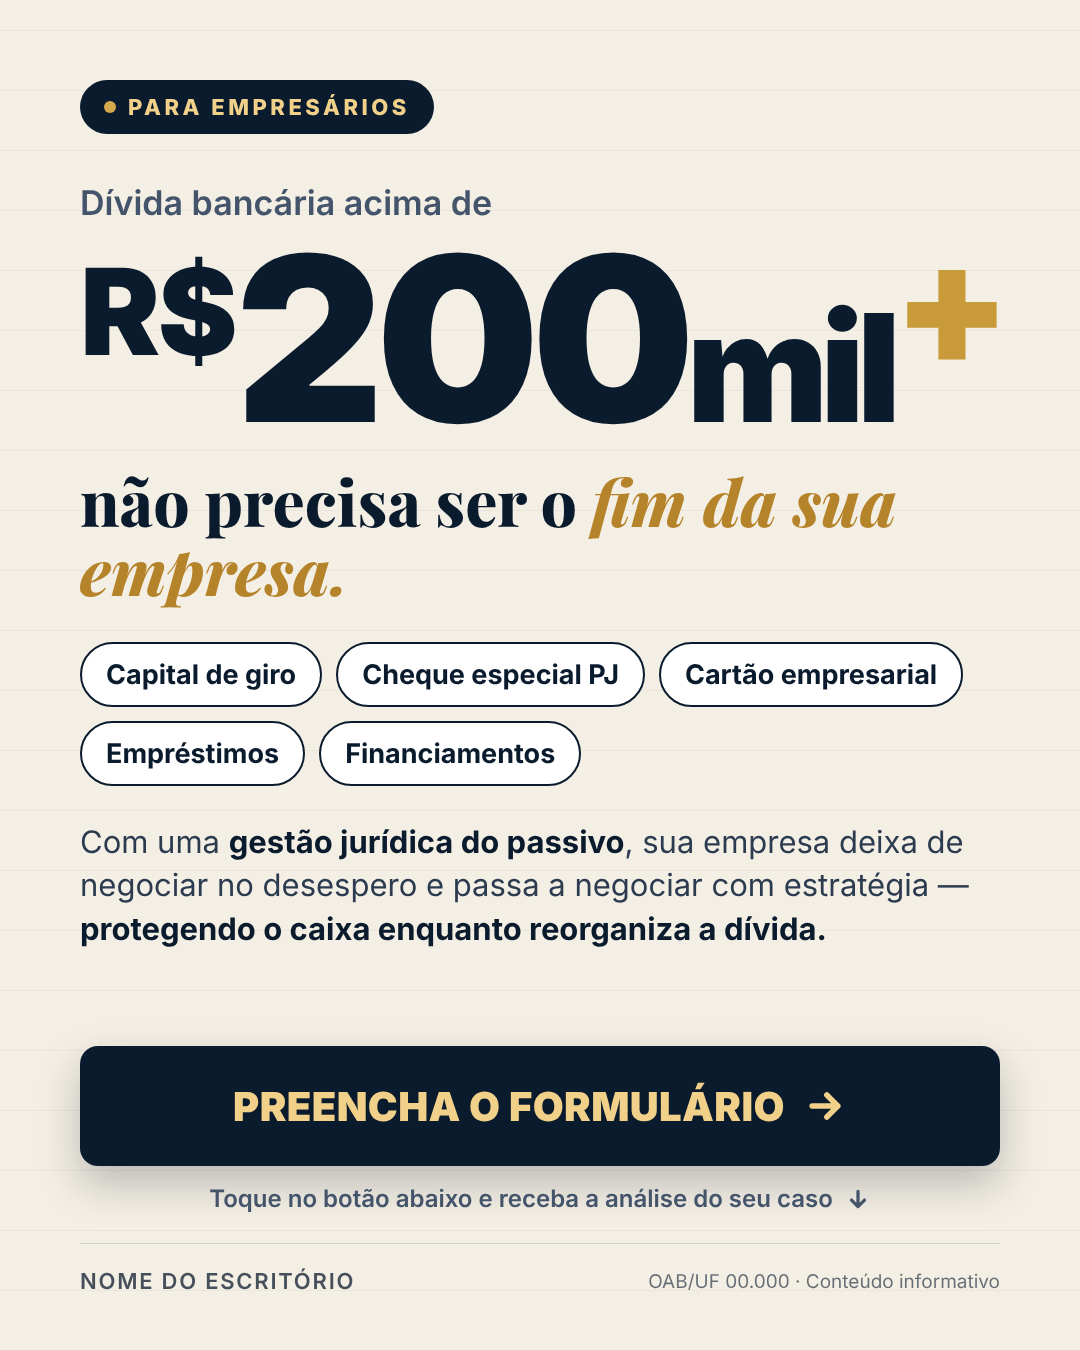
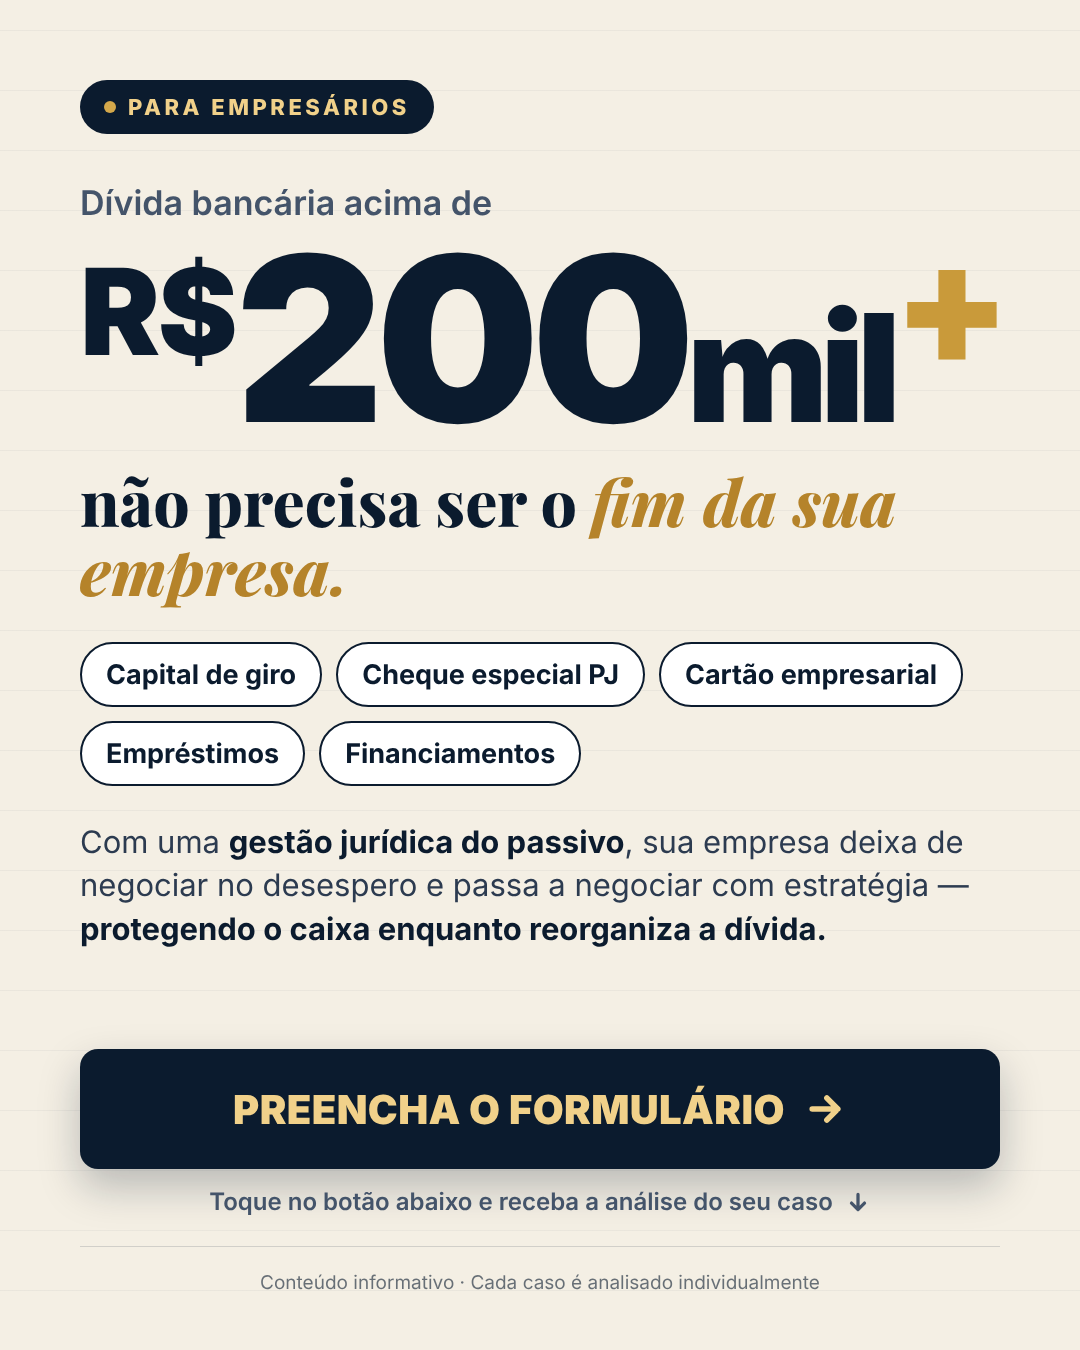
Remove nome do escritório e OAB do rodapé dos estáticos
Claude-Session: https://claude.ai/code/session_01LyqXEdwZekpgDisTfpcUBV

diff --git a/estaticos/estaticos.html b/estaticos/estaticos.html
@@ -41,7 +41,7 @@
   #p1 .bottom { margin-top: auto; }
   #p1 .cta { background: linear-gradient(180deg, #E8C36E, #C99A3A); color: #0B1B2E; box-shadow: 0 18px 40px rgba(212,168,75,.25); }
   #p1 .tap { color: #C9D3E0; }
-  #p1 .foot { display: flex; justify-content: space-between; align-items: center; margin-top: 30px; padding-top: 24px; border-top: 1px solid rgba(255,255,255,.12); }
+  #p1 .foot { display: flex; justify-content: center; align-items: center; margin-top: 30px; padding-top: 24px; border-top: 1px solid rgba(255,255,255,.12); }
 
   /* P2 */
   #p2 { background: #F4EFE4; color: #0B1B2E; padding: 80px 80px 56px; }
@@ -62,7 +62,7 @@
   #p2 .bottom { margin-top: auto; }
   #p2 .cta { background: #0B1B2E; color: #F1D18A; box-shadow: 0 18px 40px rgba(11,27,46,.25); }
   #p2 .tap { color: #44546A; }
-  #p2 .foot { display: flex; justify-content: space-between; align-items: center; margin-top: 30px; padding-top: 24px; border-top: 1.5px solid rgba(11,27,46,.15); }
+  #p2 .foot { display: flex; justify-content: center; align-items: center; margin-top: 30px; padding-top: 24px; border-top: 1.5px solid rgba(11,27,46,.15); }
 
   /* P3 */
   #p3 { background: linear-gradient(160deg, #10251E 0%, #0A1714 100%); color: #EFF5F1; padding: 80px 80px 56px; }
@@ -81,7 +81,7 @@
   #p3 .bottom { margin-top: auto; }
   #p3 .cta { background: linear-gradient(180deg, #E8C36E, #C99A3A); color: #10251E; box-shadow: 0 18px 40px rgba(212,168,75,.22); }
   #p3 .tap { color: #CFE0D7; }
-  #p3 .foot { display: flex; justify-content: space-between; align-items: center; margin-top: 30px; padding-top: 24px; border-top: 1px solid rgba(255,255,255,.12); }
+  #p3 .foot { display: flex; justify-content: center; align-items: center; margin-top: 30px; padding-top: 24px; border-top: 1px solid rgba(255,255,255,.12); }
 
   /* ================= GOLPE PIX ================= */
   /* X1 — comprovante */
@@ -109,7 +109,7 @@
   #x1 .bottom { margin-top: auto; }
   #x1 .cta { background: #32BCAD; color: #062421; box-shadow: 0 18px 44px rgba(50,188,173,.3); }
   #x1 .tap { color: #B8C7C9; }
-  #x1 .foot { display: flex; justify-content: space-between; align-items: center; margin-top: 30px; padding-top: 24px; border-top: 1px solid rgba(255,255,255,.12); }
+  #x1 .foot { display: flex; justify-content: center; align-items: center; margin-top: 30px; padding-top: 24px; border-top: 1px solid rgba(255,255,255,.12); }
 
   /* X2 — tipos de golpe */
   #x2 { background: #F3F7F7; color: #0A1F22; padding: 80px 72px 56px; }
@@ -131,7 +131,7 @@
   #x2 .bottom { margin-top: auto; }
   #x2 .cta { background: #0A1F22; color: #32BCAD; box-shadow: 0 18px 40px rgba(10,31,34,.25); }
   #x2 .tap { color: #34494C; }
-  #x2 .foot { display: flex; justify-content: space-between; align-items: center; margin-top: 30px; padding-top: 24px; border-top: 1.5px solid rgba(10,31,34,.12); }
+  #x2 .foot { display: flex; justify-content: center; align-items: center; margin-top: 30px; padding-top: 24px; border-top: 1.5px solid rgba(10,31,34,.12); }
 
   /* X3 — tempo / passo a passo */
   #x3 { background: linear-gradient(180deg, #1A0B0B 0%, #0E0A0A 55%, #0A1012 100%); color: #fff; padding: 80px 72px 56px; }
@@ -154,7 +154,7 @@
   #x3 .bottom { margin-top: auto; }
   #x3 .cta { background: #FF4D4D; color: #fff; box-shadow: 0 18px 44px rgba(255,77,77,.3); }
   #x3 .tap { color: #C4D0D2; }
-  #x3 .foot { display: flex; justify-content: space-between; align-items: center; margin-top: 30px; padding-top: 24px; border-top: 1px solid rgba(255,255,255,.12); }
+  #x3 .foot { display: flex; justify-content: center; align-items: center; margin-top: 30px; padding-top: 24px; border-top: 1px solid rgba(255,255,255,.12); }
 </style>
 </head>
 <body>
@@ -172,7 +172,7 @@
   <div class="bottom">
     <div class="cta">Preencha o formulário <svg viewBox="0 0 24 24" fill="none" stroke="currentColor" stroke-width="3" stroke-linecap="round" stroke-linejoin="round"><path d="M5 12h14M13 6l6 6-6 6"/></svg></div>
     <div class="tap">Exclusivo para empresas (PJ) com dívida bancária acima de R$ 200 mil</div>
-    <div class="foot"><span class="firm">Nome do Escritório</span><span class="disclaimer">OAB/UF 00.000 · Conteúdo informativo</span></div>
+    <div class="foot"><span class="disclaimer">Conteúdo informativo · Cada caso é analisado individualmente</span></div>
   </div>
 </section>
 
@@ -193,7 +193,7 @@
   <div class="bottom">
     <div class="cta">Preencha o formulário <svg viewBox="0 0 24 24" fill="none" stroke="currentColor" stroke-width="3" stroke-linecap="round" stroke-linejoin="round"><path d="M5 12h14M13 6l6 6-6 6"/></svg></div>
     <div class="tap">Toque no botão abaixo e receba a análise do seu caso <svg viewBox="0 0 24 24" fill="none" stroke="currentColor" stroke-width="3" stroke-linecap="round" stroke-linejoin="round"><path d="M12 5v14M6 13l6 6 6-6"/></svg></div>
-    <div class="foot"><span class="firm">Nome do Escritório</span><span class="disclaimer">OAB/UF 00.000 · Conteúdo informativo</span></div>
+    <div class="foot"><span class="disclaimer">Conteúdo informativo · Cada caso é analisado individualmente</span></div>
   </div>
 </section>
 
@@ -211,7 +211,7 @@
   <div class="bottom">
     <div class="cta">Preencha o formulário <svg viewBox="0 0 24 24" fill="none" stroke="currentColor" stroke-width="3" stroke-linecap="round" stroke-linejoin="round"><path d="M5 12h14M13 6l6 6-6 6"/></svg></div>
     <div class="tap">Leva menos de 1 minuto · Atendimento exclusivo para PJ</div>
-    <div class="foot"><span class="firm">Nome do Escritório</span><span class="disclaimer">OAB/UF 00.000 · Conteúdo informativo</span></div>
+    <div class="foot"><span class="disclaimer">Conteúdo informativo · Cada caso é analisado individualmente</span></div>
   </div>
 </section>
 
@@ -245,7 +245,7 @@
   <div class="bottom">
     <div class="cta">Preencha o formulário <svg viewBox="0 0 24 24" fill="none" stroke="currentColor" stroke-width="3" stroke-linecap="round" stroke-linejoin="round"><path d="M5 12h14M13 6l6 6-6 6"/></svg></div>
     <div class="tap">Para perdas acima de R$ 10 mil · Análise individual do seu caso</div>
-    <div class="foot"><span class="firm">Nome do Escritório</span><span class="disclaimer">OAB/UF 00.000 · Conteúdo informativo</span></div>
+    <div class="foot"><span class="disclaimer">Conteúdo informativo · Cada caso é analisado individualmente</span></div>
   </div>
 </section>
 
@@ -264,7 +264,7 @@
   <div class="bottom">
     <div class="cta">Preencha o formulário <svg viewBox="0 0 24 24" fill="none" stroke="currentColor" stroke-width="3" stroke-linecap="round" stroke-linejoin="round"><path d="M5 12h14M13 6l6 6-6 6"/></svg></div>
     <div class="tap">Toque no botão abaixo e conte o que aconteceu <svg viewBox="0 0 24 24" fill="none" stroke="currentColor" stroke-width="3" stroke-linecap="round" stroke-linejoin="round"><path d="M12 5v14M6 13l6 6 6-6"/></svg></div>
-    <div class="foot"><span class="firm">Nome do Escritório</span><span class="disclaimer">OAB/UF 00.000 · Conteúdo informativo</span></div>
+    <div class="foot"><span class="disclaimer">Conteúdo informativo · Cada caso é analisado individualmente</span></div>
   </div>
 </section>
 
@@ -282,7 +282,7 @@
   </div>
   <div class="bottom">
     <div class="cta">Preencha o formulário <svg viewBox="0 0 24 24" fill="none" stroke="currentColor" stroke-width="3" stroke-linecap="round" stroke-linejoin="round"><path d="M5 12h14M13 6l6 6-6 6"/></svg></div>
-    <div class="foot"><span class="firm">Nome do Escritório</span><span class="disclaimer">OAB/UF 00.000 · Conteúdo informativo</span></div>
+    <div class="foot"><span class="disclaimer">Conteúdo informativo · Cada caso é analisado individualmente</span></div>
   </div>
 </section>
 
